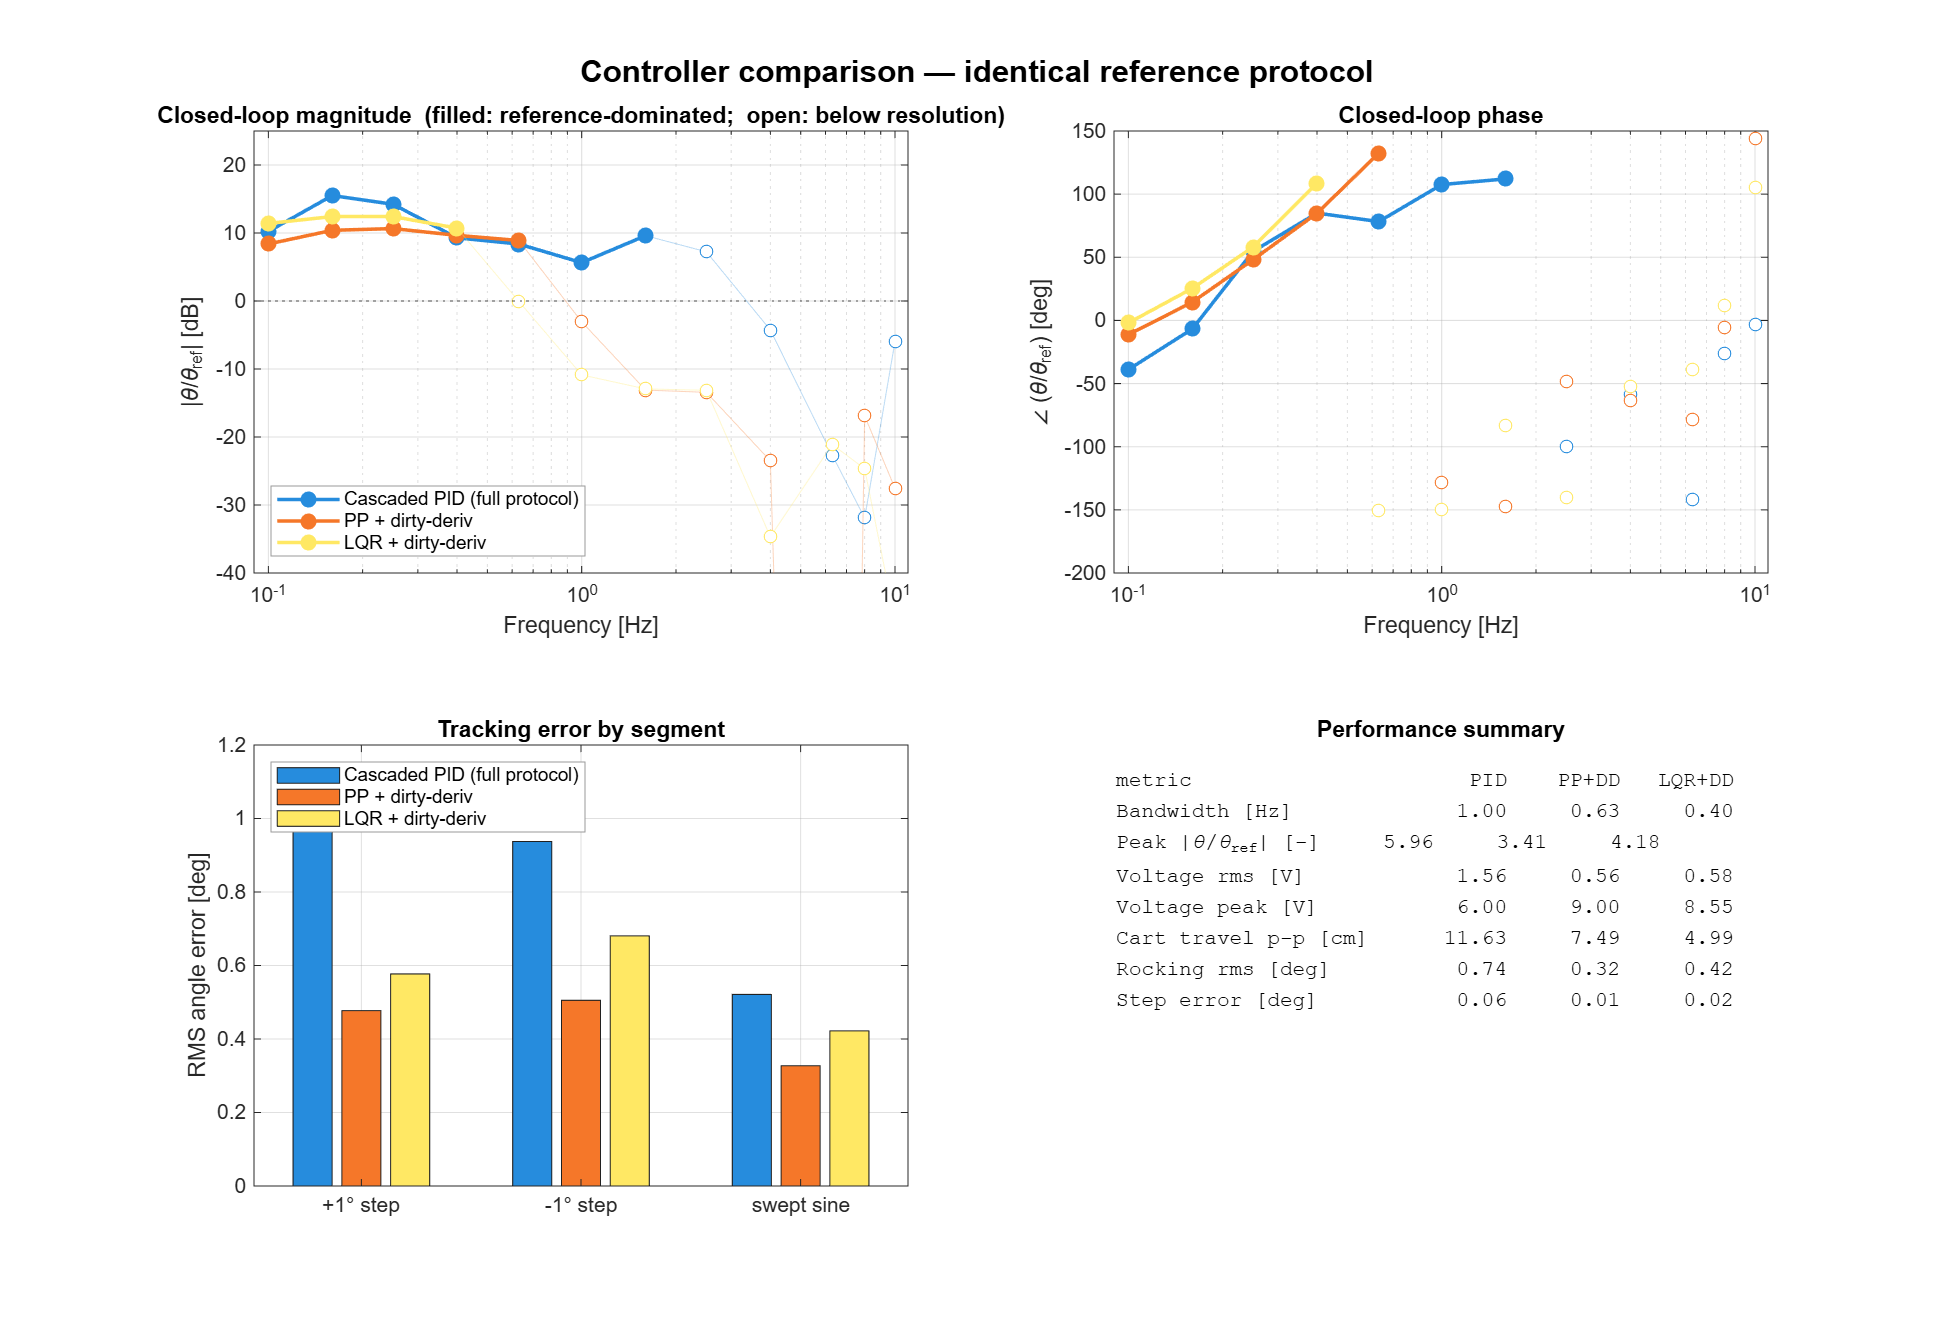
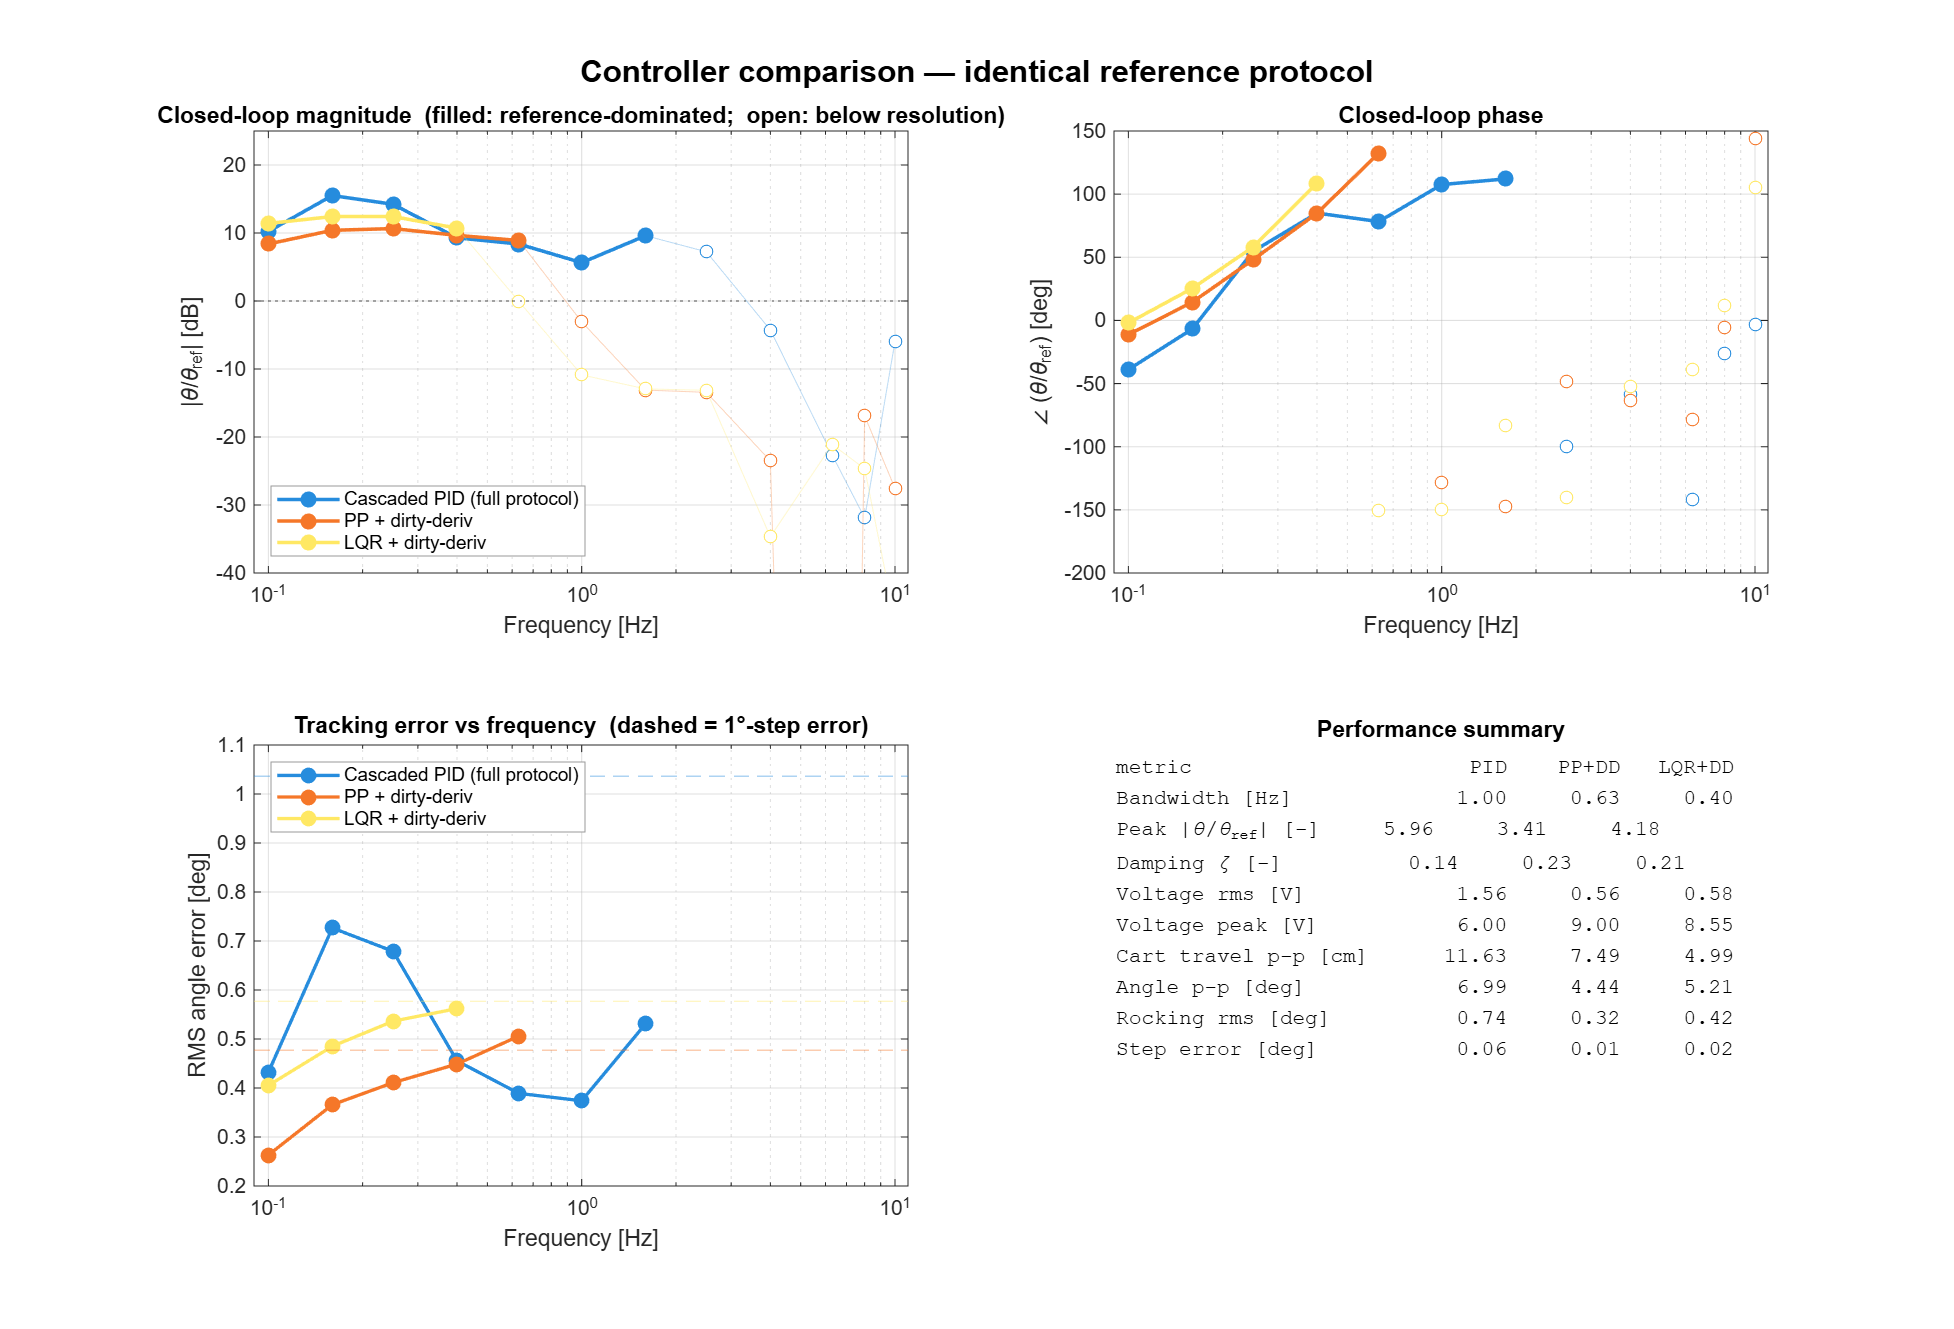
Add per-segment metrics, 2nd-order model fit, and clearer figures
- Metrics: per-step peak/p2p, steady rocking, per-frequency RMS error,
  whole-run angle RMS/p2p, and closed-loop damping ratio.
- Data-driven model: fit a 2nd-order closed-loop theta/theta_ref per
  controller (zeta, f_n, resonant peak) — ties step overshoot to the
  frequency-response peak. Open-loop plant ID was dropped as unreliable
  (closed-loop identifiability).
- Figures: replaced grouped-bar panel with an RMS-error-vs-frequency
  line + performance table; added accuracy/effort trade-off scatter,
  closed-loop model fit, and theta vs theta_dot phase portraits.
  Engineering-style titles, light theme throughout.

diff --git a/validation/scripts/analyze_tracking.m b/validation/scripts/analyze_tracking.m
@@ -57,9 +57,9 @@ for i = 1:numel(caps)
     % consistent field template so per-file structs concatenate cleanly
     m = struct('name',[],'controller',[],'fmt',[],'duration_s',[], ...
         'theta_offset_deg',[],'V_rms',[],'V_peak',[],'V_clamp',[],'V_pct_motor',[], ...
-        'xc_rms_cm',[],'xc_pp_cm',[], ...
+        'xc_rms_cm',[],'xc_pp_cm',[],'angle_rms_deg',[],'angle_p2p_deg',[], ...
         'step_pos',[],'step_neg',[],'pulse',[],'frf',[],'bw_hz',[], ...
-        'frf_peak',[],'track_rms_sines_deg',[],'osc',[],'observer',[]);
+        'frf_peak',[],'track_rms_sines_deg',[],'osc',[],'model',[],'observer',[]);
     m.name = c.name; m.controller = c.controller; m.fmt = c.fmt;
     m.duration_s = c.t(end); m.theta_offset_deg = rad2deg(c.theta_offset);
 
@@ -73,6 +73,9 @@ for i = 1:numel(caps)
     % cart travel = actuator authority used (track usable half-stroke ~41 cm)
     m.xc_rms_cm = rms(c.xc(runmask) - mean(c.xc(runmask))) * 100;
     m.xc_pp_cm  = (max(c.xc(runmask)) - min(c.xc(runmask))) * 100;
+    % whole-run angle-tracking error
+    m.angle_rms_deg = rad2deg(rms(c.theta(runmask) - c.r_theta(runmask)));
+    m.angle_p2p_deg = rad2deg(max(c.theta(runmask)) - min(c.theta(runmask)));
 
     % --- step & pulse tracking (segmented runs only) ---
     if c.has_seg
@@ -89,6 +92,7 @@ for i = 1:numel(caps)
         gd = frf.mag(frf.ok);
         m.frf_peak = max([gd; NaN]);
         m.track_rms_sines_deg = rad2deg(local_rms_err(c, 10:21));
+        m.model = local_fit_2nd_order(c);   % closed-loop 2nd-order model from data
     end
 
     % --- bounded oscillation on recovery / baseline (r=0) ---
@@ -118,6 +122,23 @@ try
     local_controller_comparison(caps(cmp_idx), per(cmp_idx), P, outdir);
 catch ME
     fprintf('[warn] controller comparison failed: %s\n', ME.message);
+end
+try
+    local_tradeoff(per(cmp_idx), outdir);
+catch ME
+    fprintf('[warn] trade-off plot failed: %s\n', ME.message);
+end
+try
+    local_model_summary(caps(cmp_idx), per(cmp_idx), outdir);
+catch ME
+    fprintf('[warn] model summary failed: %s\n', ME.message);
+end
+for i = 1:numel(caps)
+    if caps{i}.has_states
+        try, local_phase_portrait(caps{i}, outdir); catch ME
+            fprintf('[warn] phase portrait (%s) failed: %s\n', caps{i}.name, ME.message);
+        end
+    end
 end
 
 % =====================================================================
@@ -185,7 +206,10 @@ s.final_deg = yf; s.cmd_deg = A;
 s.dc_gain = yf / A;                     % steady tracking gain (~1 is ideal)
 s.ss_err_deg = yf - A;
 tpk = t < min(2.5, 0.5*t(end));         % transient window only (not whole seg)
+s.peak_deg = sign(A) * max(sign(A)*th(tpk));   % signed transient peak
 s.overshoot_pct = max(0, (max(sign(A)*th(tpk)) - sign(A)*yf) / abs(A) * 100);
+s.p2p_deg = max(th) - min(th);                 % angle peak-to-peak over the step
+s.rms_angle_deg = rms(th(steady) - yf);        % steady-state rocking about final
 % 10-90 rise time
 tgt10 = y0 + 0.1*(yf-y0); tgt90 = y0 + 0.9*(yf-y0);
 i10 = find((th-tgt10)*sign(A) >= 0, 1); i90 = find((th-tgt90)*sign(A) >= 0, 1);
@@ -212,7 +236,8 @@ function frf = local_tracking_frf(c, sine_freqs)
 % complementary sensitivity T=theta/r_theta with a fit-quality gate.
 nf = numel(sine_freqs);
 frf = struct('f',sine_freqs,'mag',nan(nf,1),'phase_deg',nan(nf,1), ...
-             'r2',nan(nf,1),'r_amp_deg',nan(nf,1),'th_amp_deg',nan(nf,1),'ok',false(nf,1));
+             'r2',nan(nf,1),'r_amp_deg',nan(nf,1),'th_amp_deg',nan(nf,1), ...
+             'rms_err_deg',nan(nf,1),'ok',false(nf,1));
 for k = 1:nf
     id = 9+k; m = c.segmask(id); if ~any(m), continue; end
     t = c.t(m); t = t - t(1); r = c.r_theta(m); th = c.theta(m);
@@ -223,6 +248,7 @@ for k = 1:nf
     ra = hypot(ar(1),ar(2)); ta = hypot(at(1),at(2));
     resid = th(idx) - X*at;
     r2 = 1 - var(resid)/max(var(th(idx)),eps);
+    frf.rms_err_deg(k) = rad2deg(rms(th(idx)-r(idx)));
     frf.r_amp_deg(k)=rad2deg(ra); frf.th_amp_deg(k)=rad2deg(ta);
     frf.mag(k) = ta/ra;
     frf.phase_deg(k) = rad2deg(atan2(at(1),at(2)) - atan2(ar(1),ar(2)));
@@ -359,35 +385,37 @@ end
 grid on; xlim([0.09 11]); xlabel('Frequency [Hz]'); ylabel('\angle (\theta/\theta_{ref}) [deg]');
 title('Closed-loop phase');
 
-% (3) RMS tracking error per segment (steps vs swept sine)
+% (3) tracking error vs frequency (swept sine) + steps as reference markers
 subplot(2,2,3);
-labels = {'+1{\circ} step','-1{\circ} step','swept sine'};
-M = nan(numel(per),3);
 for i=1:numel(per)
-    M(i,1)=per(i).step_pos.track_rms_deg;
-    M(i,2)=per(i).step_neg.track_rms_deg;
-    M(i,3)=per(i).track_rms_sines_deg;
+    g=per(i).frf; ok=g.ok;
+    semilogx(g.f(ok), g.rms_err_deg(ok),'o-','Color',cols(i,:),'LineWidth',1.6, ...
+        'MarkerFaceColor',cols(i,:)); hold on;
 end
-b=bar(M'); for i=1:numel(b), b(i).FaceColor=cols(i,:); end
-set(gca,'XTickLabel',labels); grid on; ylabel('RMS angle error [deg]');
-title('Tracking error by segment');
+for i=1:numel(per)
+    yline(per(i).step_pos.track_rms_deg, '--','Color',cols(i,:),'Alpha',0.5,'HandleVisibility','off');
+end
+grid on; xlim([0.09 11]); xlabel('Frequency [Hz]'); ylabel('RMS angle error [deg]');
+title('Tracking error vs frequency  (dashed = 1{\circ}-step error)');
 legend({per.controller},'Location','northwest','Interpreter','none');
 
 % (4) performance table (clean, mixed units)
 subplot(2,2,4); axis off;
-rows = {'Bandwidth [Hz]','Peak |\theta/\theta_{ref}| [-]','Voltage rms [V]', ...
-        'Voltage peak [V]','Cart travel p-p [cm]','Rocking rms [deg]','Step error [deg]'};
+rows = {'Bandwidth [Hz]','Peak |\theta/\theta_{ref}| [-]','Damping \zeta [-]', ...
+        'Voltage rms [V]','Voltage peak [V]','Cart travel p-p [cm]', ...
+        'Angle p-p [deg]','Rocking rms [deg]','Step error [deg]'};
 vals = zeros(numel(rows), numel(per));
 for i=1:numel(per)
-    vals(:,i) = [per(i).bw_hz; per(i).frf_peak; per(i).V_rms; per(i).V_peak; ...
-                 per(i).xc_pp_cm; per(i).osc.rms_deg; per(i).step_pos.ss_err_deg];
+    zeta = local_getf(per(i).model,'zeta',NaN);
+    vals(:,i) = [per(i).bw_hz; per(i).frf_peak; zeta; per(i).V_rms; per(i).V_peak; ...
+                 per(i).xc_pp_cm; per(i).angle_p2p_deg; per(i).osc.rms_deg; per(i).step_pos.ss_err_deg];
 end
 short = {'PID','PP+DD','LQR+DD'};
 tx = sprintf('%-22s %8s %8s %8s\n','metric', short{:});
 for r=1:numel(rows)
     tx = [tx sprintf('%-22s %8.2f %8.2f %8.2f\n', rows{r}, vals(r,:))]; %#ok<AGROW>
 end
-text(0.0, 0.95, tx, 'FontName','FixedWidth','FontSize',10,'VerticalAlignment','top','Interpreter','tex');
+text(0.0, 0.98, tx, 'FontName','FixedWidth','FontSize',10,'VerticalAlignment','top','Interpreter','tex');
 title('Performance summary');
 
 sgtitle('Controller comparison — identical reference protocol','FontWeight','bold');
@@ -509,6 +537,123 @@ end
 %% ===================================================================
 %  Base-MATLAB DSP helpers (no Signal Processing Toolbox dependency)
 %  ===================================================================
+function v = local_getf(s, f, d)
+% Safe struct field fetch with default.
+if isstruct(s) && isfield(s,f) && ~isempty(s.(f)), v = s.(f); else, v = d; end
+end
+
+function md = local_fit_2nd_order(c)
+% Fit a 2nd-order closed-loop model theta/theta_ref from the (stable) logged
+% reference-tracking data. Returns natural frequency, damping, resonant peak.
+md = struct('valid',false,'wn',NaN,'fn_hz',NaN,'zeta',NaN,'Mr',NaN,'dc',NaN,'fit_pct',NaN);
+mask = c.t > 15; dec = 2; idx = find(mask); idx = idx(1:dec:end);
+if numel(idx) < 200, return; end
+z = iddata(c.theta(idx), c.r_theta(idx), 0.002*dec);
+try
+    sys = tfest(z, 2, 0);
+    [~,fit] = compare(z, sys); if iscell(fit), fit = fit{1}; end
+    p = pole(sys); wn = abs(p(1)); ze = -real(p(1))/wn;
+    md.valid = true; md.sys = sys; md.wn = wn; md.fn_hz = wn/(2*pi);
+    md.zeta = ze; md.dc = dcgain(sys); md.fit_pct = fit;
+    if ze < 1, md.Mr = 1/(2*ze*sqrt(1-ze^2)); else, md.Mr = md.dc; end
+catch
+end
+end
+
+function local_model_summary(caps, per, outdir)
+% Per-controller 2nd-order closed-loop model: step + frequency-response fit,
+% with natural frequency and damping. Ties the time- and frequency-domain
+% behaviour together through one identified model per controller.
+cols = lines(numel(per));
+f = local_newfig([50 50 1300 560]);
+
+% (left) measured +1 deg step vs identified 2nd-order step
+subplot(1,2,1); hold on; h=[]; leg={};
+for i=1:numel(per)
+    c = caps{i}; md = per(i).model;
+    mm = c.segmask(2); t = c.t(mm)-c.t(find(mm,1));
+    h(end+1) = plot(t, rad2deg(c.theta(mm)),'-','Color',cols(i,:),'LineWidth',1.0); %#ok<AGROW>
+    leg{end+1} = sprintf('%s  (\\zeta=%.2f, f_n=%.2f Hz)', per(i).controller, ...
+        local_getf(md,'zeta',NaN), local_getf(md,'fn_hz',NaN)); %#ok<AGROW>
+    if local_getf(md,'valid',false)
+        tt = linspace(0,t(end),1500)';
+        ys = step(md.sys, tt) * deg2rad(1);     % 1 deg reference step
+        plot(tt, rad2deg(ys),'--','Color',cols(i,:),'LineWidth',1.8);
+    end
+end
+yline(1,'k:'); grid on; xlim([0 12]); ylim([-0.5 4]);
+xlabel('Time from step [s]'); ylabel('Seesaw angle \theta [deg]');
+legend(h, leg, 'Location','northeast','Interpreter','tex');
+title('1{\circ} step: measured (solid) vs 2nd-order model (dashed)');
+
+% (right) measured FRF points vs identified model magnitude
+subplot(1,2,2);
+fline = logspace(log10(0.09), log10(11), 200)';
+for i=1:numel(per)
+    g = per(i).frf; ok = g.ok; md = per(i).model;
+    semilogx(g.f(ok), 20*log10(g.mag(ok)),'o','Color',cols(i,:), ...
+        'MarkerFaceColor',cols(i,:),'HandleVisibility','off'); hold on;
+    if local_getf(md,'valid',false)
+        mgm = squeeze(bode(md.sys, 2*pi*fline));
+        semilogx(fline, 20*log10(mgm),'-','Color',cols(i,:),'LineWidth',1.6);
+    end
+end
+grid on; yline(0,'k:','HandleVisibility','off'); xlim([0.09 11]); ylim([-40 25]);
+xlabel('Frequency [Hz]'); ylabel('|\theta/\theta_{ref}| [dB]');
+legend({per.controller},'Location','southwest','Interpreter','none');
+title('Closed-loop response: measured (points) vs 2nd-order model (line)');
+
+sgtitle('Data-driven 2nd-order closed-loop model','FontWeight','bold');
+saveas(f, fullfile(outdir,'Model-ClosedLoop.png')); close(f);
+fprintf('  saved Model-ClosedLoop.png\n');
+end
+
+function local_tradeoff(per, outdir)
+% Intuitive trade-off scatter: tracking accuracy vs control effort,
+% bubble size = cart travel used. Lower-left = better.
+f = local_newfig([60 60 820 640]);
+cols = lines(numel(per)); hold on;
+for i=1:numel(per)
+    x = per(i).angle_rms_deg; y = per(i).V_rms;
+    sz = 200 + 60*per(i).xc_pp_cm;
+    scatter(x, y, sz, cols(i,:), 'filled', 'MarkerFaceAlpha',0.6, 'MarkerEdgeColor','k');
+    text(x, y, ['  ' per(i).controller], 'FontSize',10,'Interpreter','none');
+end
+grid on; xlabel('Angle tracking error (rms) [deg]'); ylabel('Motor voltage (rms) [V]');
+title('Accuracy vs effort trade-off  (bubble \propto cart travel; lower-left is better)');
+xl=xlim; yl=ylim; xlim([0 xl(2)*1.15]); ylim([0 yl(2)*1.15]);
+saveas(f, fullfile(outdir,'Compare-Tradeoff.png')); close(f);
+fprintf('  saved Compare-Tradeoff.png\n');
+end
+
+function local_phase_portrait(c, outdir)
+% Phase portrait theta vs theta_dot — shows the limit cycle / dead-zone shape.
+% Trajectories are broken at segment gaps so non-contiguous spans are not
+% joined by spurious straight lines.
+f = local_newfig([60 60 900 760]);
+% use the smooth observer rate (the dirty-derivative is too quantization-spiky
+% for a legible phase portrait)
+thd = c.theta_dot_hat;
+[xr,yr] = local_break(rad2deg(c.theta), thd, c.segmask([1 3 5 7 30]));
+[xs,ys] = local_break(rad2deg(c.theta), thd, c.segmask([2 4]));
+h2 = plot(xs, ys, '-', 'Color',[.85 .3 .1 0.8],'LineWidth',0.7); hold on;
+h1 = plot(xr, yr, '-', 'Color',[.2 .4 .9 0.6],'LineWidth',0.6);
+grid on; xlabel('Seesaw angle \theta [deg]');
+ylabel('Angular rate $\dot\theta$ (observer) [rad/s]','Interpreter','latex');
+legend([h1 h2],{'reference held at 0 (rocking)','\pm1{\circ} steps'},'Location','northeast');
+title(sprintf('Phase portrait — %s', c.controller),'FontWeight','bold');
+saveas(f, fullfile(outdir, sprintf('Phase-%s.png', c.name))); close(f);
+fprintf('  saved Phase-%s.png\n', c.name);
+end
+
+function [xb, yb] = local_break(x, y, mask)
+% Return x,y over mask with NaNs inserted at non-contiguous index gaps.
+idx = find(mask); if isempty(idx), xb=[]; yb=[]; return; end
+gap = [false; diff(idx)>1];
+xb = x(idx); yb = y(idx);
+xb(gap) = NaN; yb(gap) = NaN;
+end
+
 function local_light_theme()
 % Force clean light-on-white figures regardless of the MATLAB app theme.
 set(groot,'defaultAxesTickLabelInterpreter','tex');
